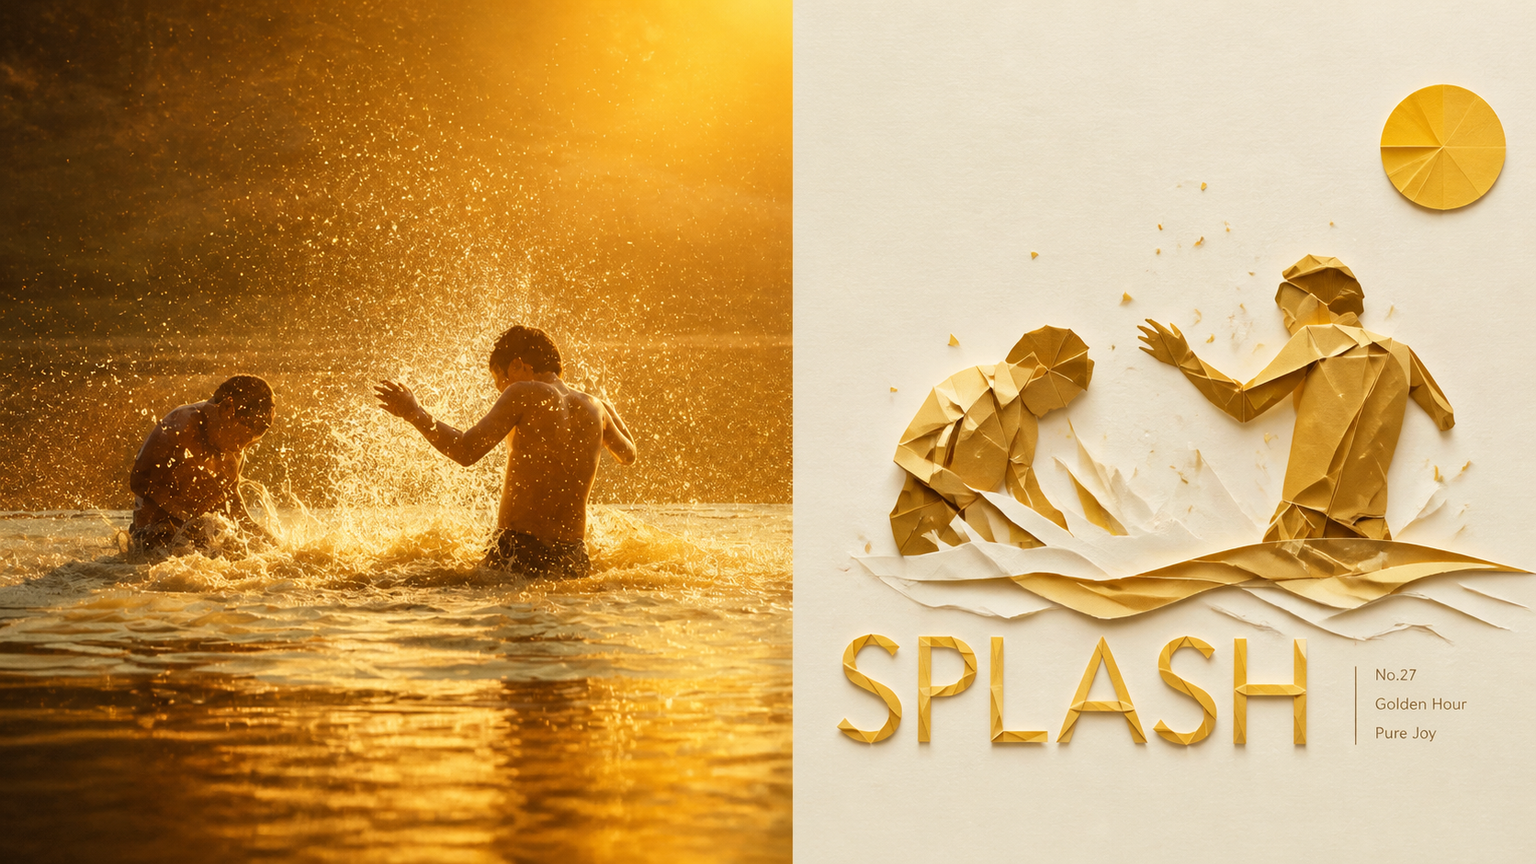
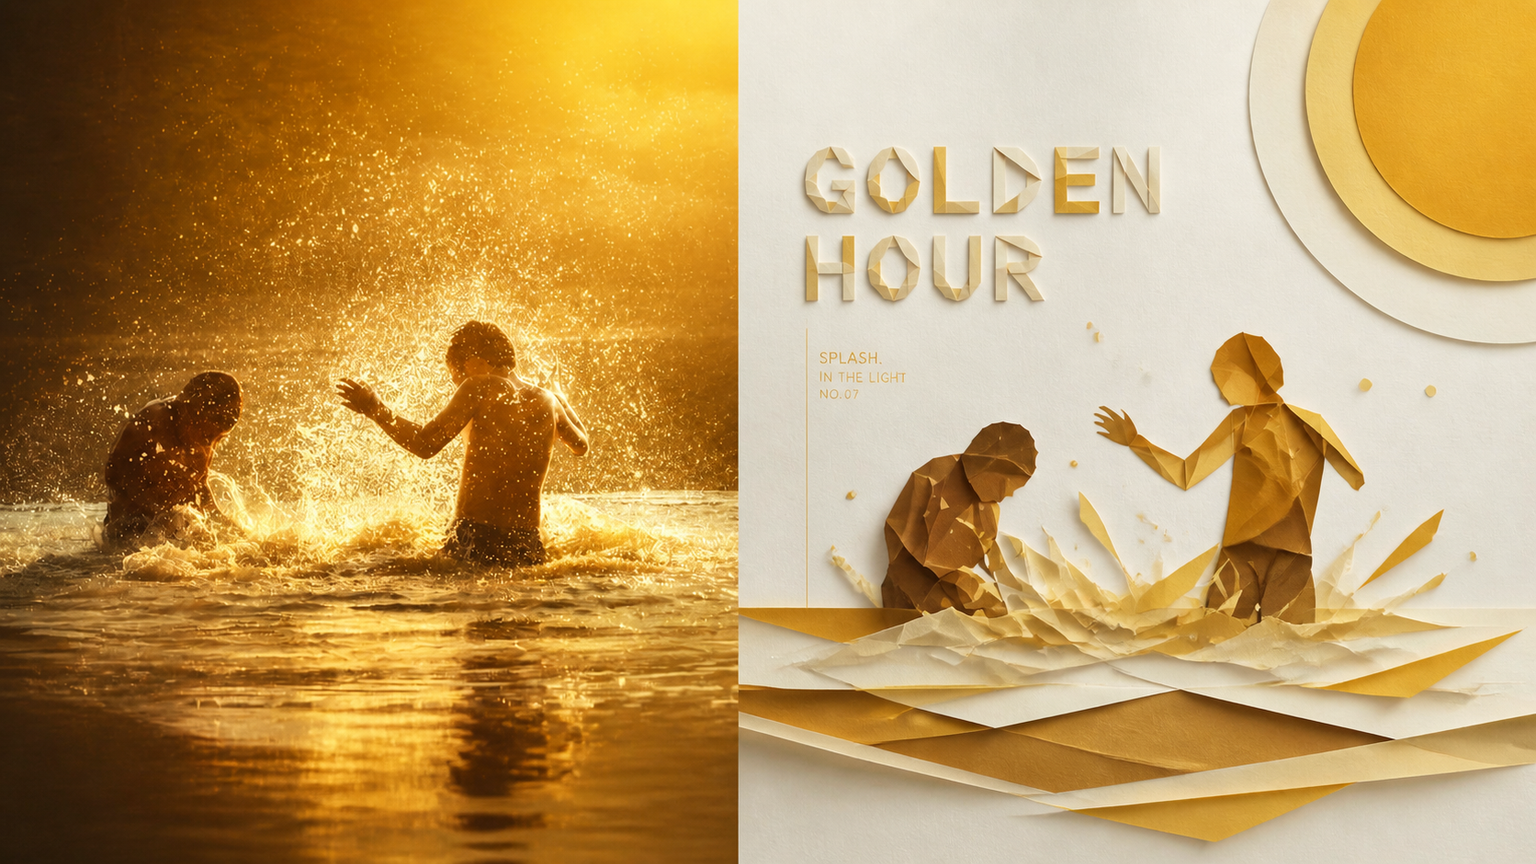
docs: add four 16:9 left-right samples

diff --git a/README.en.md b/README.en.md
@@ -16,6 +16,28 @@
 
 </div>
 
+<!-- xxd-human-intro:start -->
+## The short, honest version
+
+Ever had a photo you loved turn into generic “AI design”? The subject survives, but the relationship, mood, and tiny details that made the photo yours disappear.
+
+That frustration is why I made **Panel 014**. It does not press a template onto your image. It first works out what must not be lost, then translates it into **Rebuild the photograph as tactile contemporary folded-paper sculpture**.
+
+### Understand it in 30 seconds
+
+- **Give it:** one photo, a folder of images, or a rough idea.
+- **It does:** preserves recognizable people, objects, actions, and relationships, then redesigns them in this Panel’s own visual language.
+- **You get:** ready-to-use PNGs—comparison layouts, design-only artwork, multiple ratios, or a wallpaper set.
+
+### The easiest way to try it
+
+You do not need to study every option first. Give your Agent an image and say:
+
+> Use XXD Panel 014 on this image and recommend the best layout and size first.
+
+Check the samples below if you want to feel out the aesthetic. If you are ready, jump to [Get started](#get-started). The full modes, sizes, and parameters are tucked into an expandable reference for later.
+<!-- xxd-human-intro:end -->
+
 ## Samples · From X
 
 <table>
@@ -29,6 +51,11 @@
   </tr>
   <tr>
     <td colspan="2"><img src="./assets/examples/sample-05.png" alt="XXD Panel 014 Sample 5"></td>
+  </tr>
+  <tr>
+    <td width="33%"><img src="./assets/examples/sample-06.png" alt="XXD Panel 014 Sample 6"></td>
+    <td width="33%"><img src="./assets/examples/sample-07.png" alt="XXD Panel 014 Sample 7"></td>
+    <td width="33%"><img src="./assets/examples/sample-08.png" alt="XXD Panel 014 Sample 8"></td>
   </tr>
 </table>
 
@@ -85,6 +112,9 @@ If an unrelated photograph could replace the source without materially changing 
 - **Source-derived paper palette:** same-hue value steps, neighbouring hues, and only a small contrast distinguish facets and depth on an ivory, light-grey, pastel, or compatible pale ground.
 - **Real material:** soft diffuse light clearly reveals fibre, crease, cut edge, thickness, layer separation, and natural shadow.
 - **Paper typography:** one short word or title becomes readable spatial structure by wrapping, extending, hugging, supporting, interweaving, overlapping, or suspending.
+
+<details>
+<summary><strong>Full capabilities and parameters (open when needed)</strong></summary>
 
 ## The original brief is authoritative
 
@@ -227,6 +257,8 @@ GPT Image 2 is the default first choice. It keeps this project's established wor
 Seedance 5.0 Pro, Nano Banana Pro (Gemini Image Pro), Nano Banana 2 (Gemini Image Flash), or another compatible bitmap model may also be used when it is actually available through the current tools or configured routes and can satisfy source fidelity, whole-canvas ratio, target-language text, and linked-wallpaper multi-reference requirements. An alternative changes only the generation route; it must not change modes, canvas, copy, locale, wallpaper relationship, or the complete-canvas-first strategy.
 
 If no suitable route is available, the Skill asks the user to enable an image-generation tool or provide an API key. User-provided credentials may be used for the current task without being echoed, displayed, logged, or exposed. They are not persisted, and provider, account, billing, or global route configuration is not modified, unless the user explicitly requests that configuration change.
+
+</details>
 
 ## Get started
 

diff --git a/assets/examples/README.md b/assets/examples/README.md
@@ -11,5 +11,8 @@
   - `sample-03.jpg`
   - `sample-04.jpg`
   - `sample-05.png` — generated 16:9 left-right English-copy sample from the Chenxiang poster batch
+  - `sample-06.png` — generated 16:9 left-right English-copy sample from the Chenxiang poster batch
+  - `sample-07.png` — generated 16:9 left-right English-copy sample from the Chenxiang poster batch
+  - `sample-08.png` — generated 16:9 left-right English-copy sample from the Chenxiang poster batch
 
 The repository READMEs display these local copies; the original four samples link back to their X post, while sample-05 is a newly generated batch sample. The samples demonstrate the style's aesthetic motive and range only; they never become generation references, source material, fixed subjects, palettes, composition, copy, or default canvas sizes.
